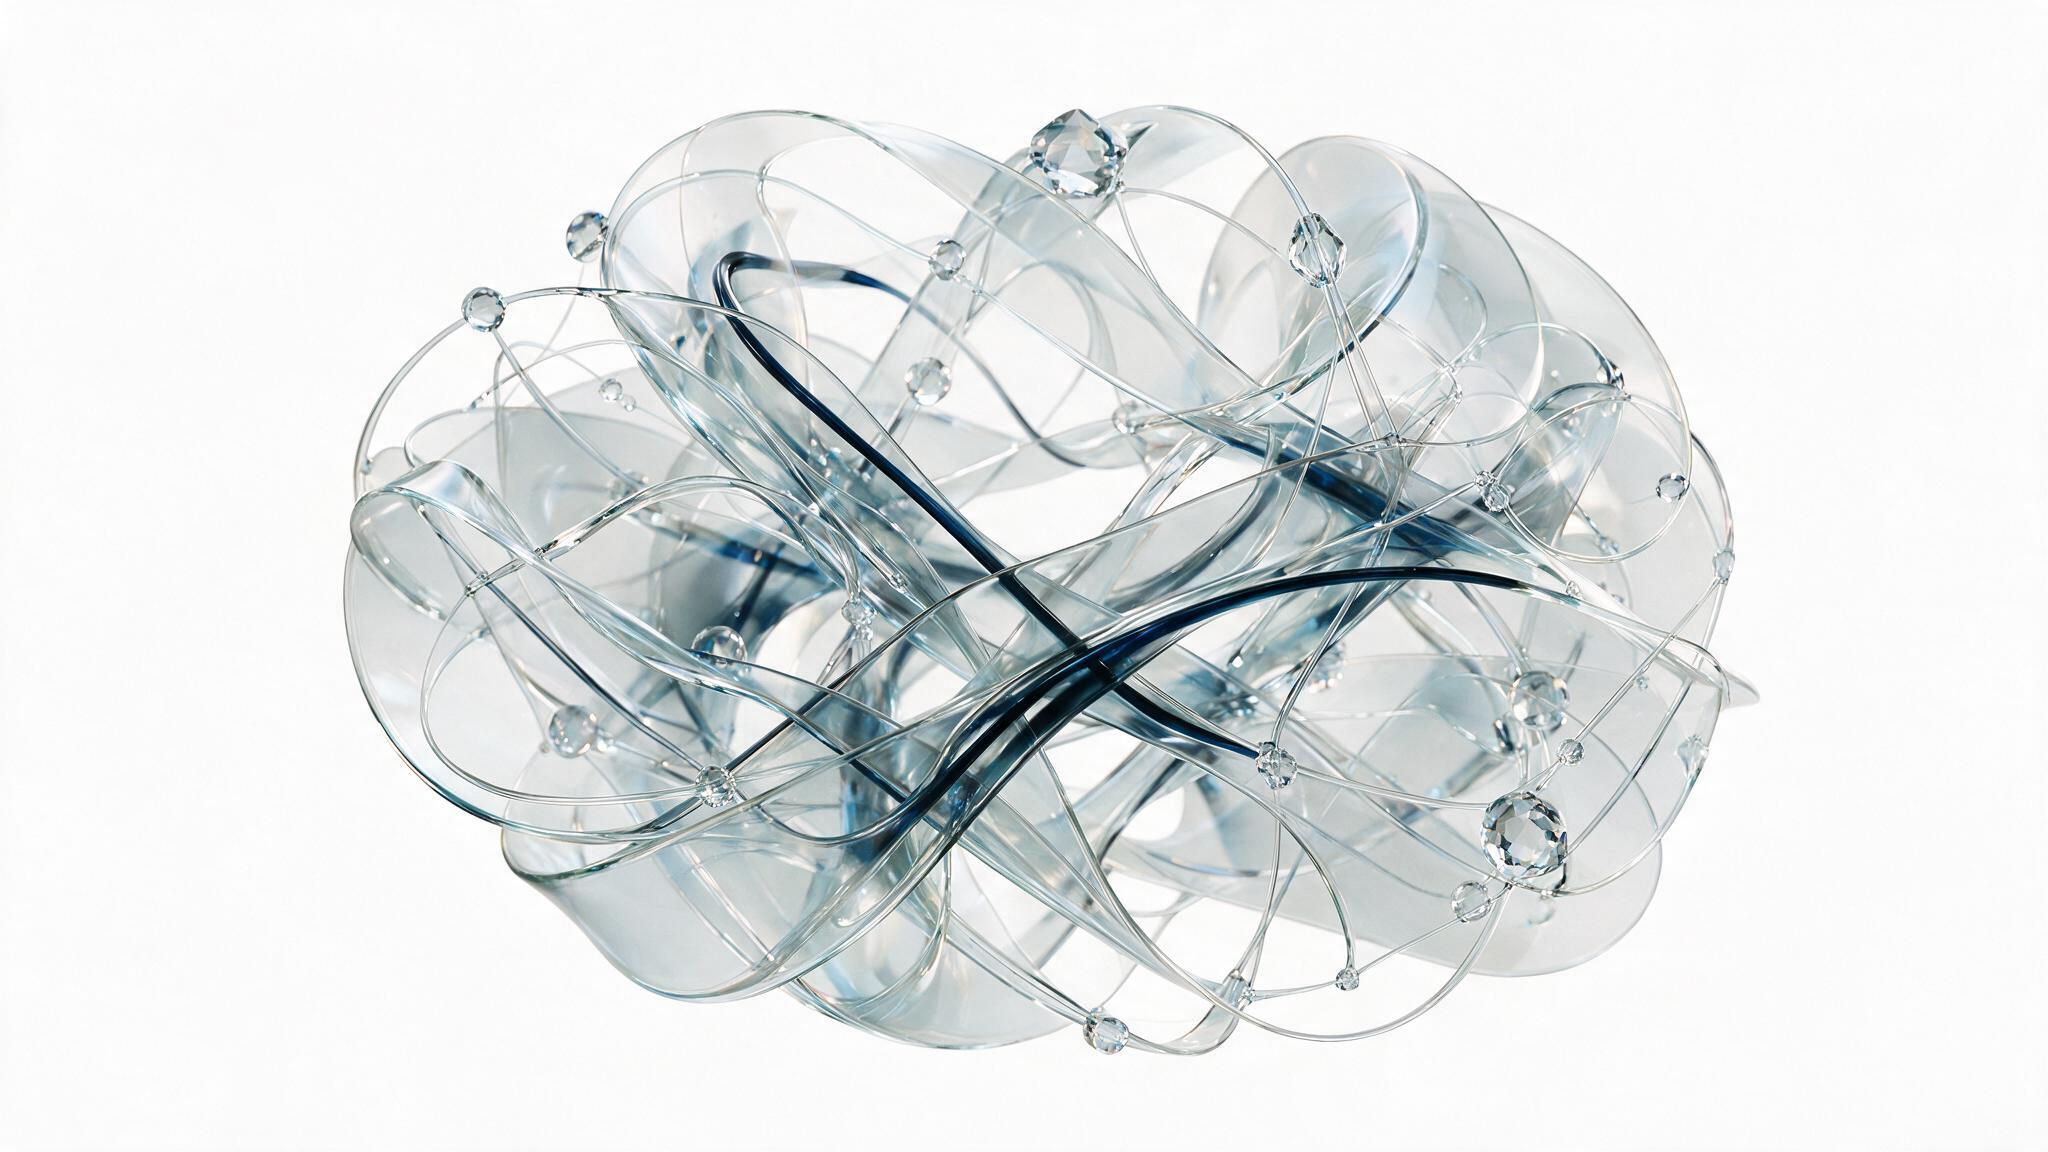
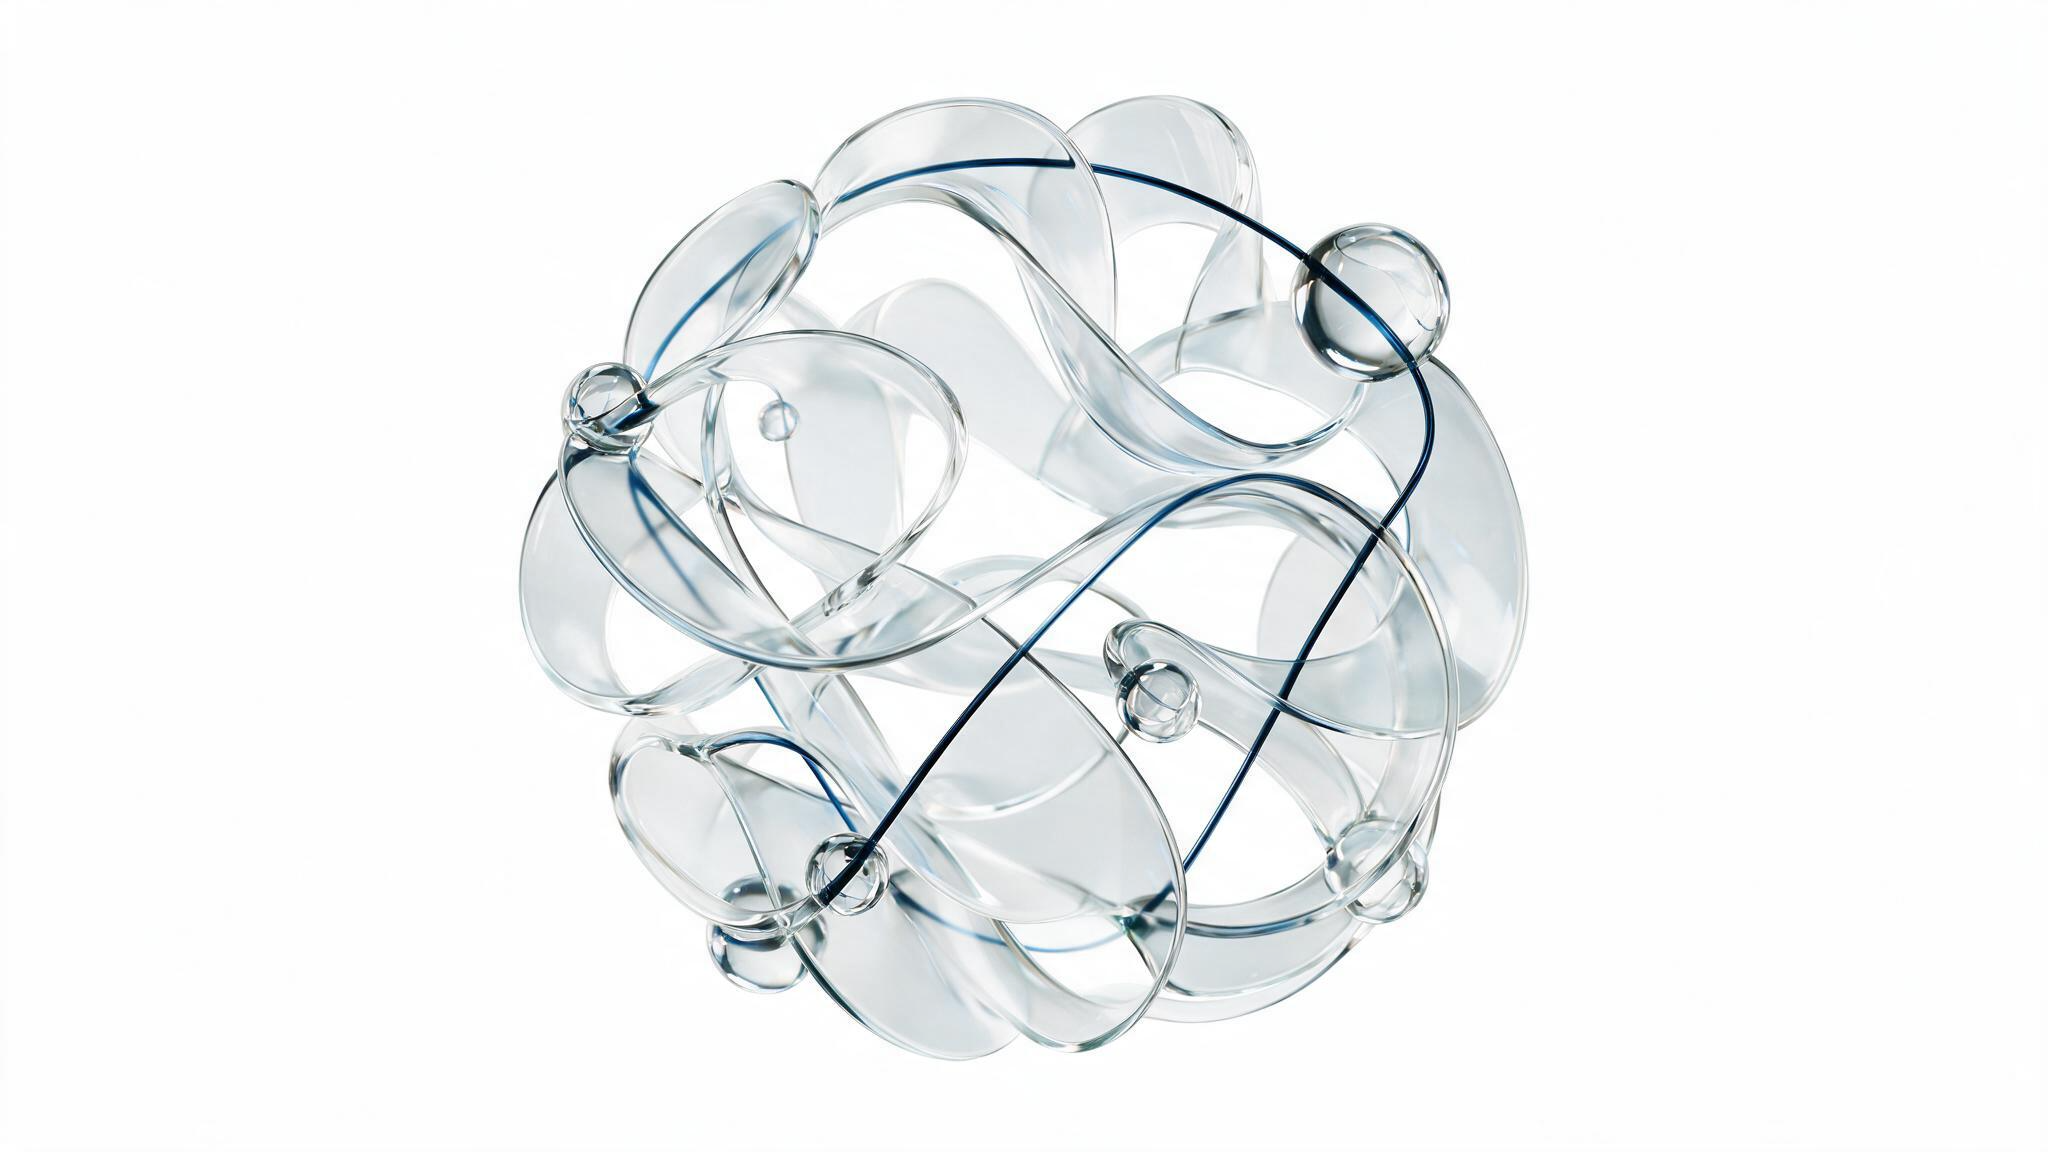
Ajuste mobile
Claude-Session: https://claude.ai/code/session_0167xgvGXi1CJqWEChrnvf8z

diff --git a/src/styles/liquid-glass.css b/src/styles/liquid-glass.css
@@ -776,6 +776,20 @@
   background: var(--surface-2);
   flex-shrink: 0;
 }
+@media (max-width: 639px) {
+  .liquid-trajectory-stats {
+    flex-direction: column;
+    align-items: flex-start;
+    gap: 24px;
+  }
+  .liquid-trajectory-stat {
+    width: 100%;
+  }
+  .liquid-trajectory-divider {
+    width: 100%;
+    height: 1px;
+  }
+}
 
 /* Trajetória — imagem de vidro (fundo-trajetoria.png), com um véu
    petróleo sutil por baixo ("preenchimento linear 20%" do Brief
@@ -1191,8 +1205,23 @@
    bordas, em vez da imagem inteira encolhida. Só < md; desktop (100vw)
    intocado. */
 @media (max-width: 767px) {
+  .liquid-about-composition {
+    margin-top: 120px;
+    overflow: visible;
+    position: relative;
+  }
   .liquid-about-bg {
-    width: 180vw;
+    width: 120vw;
+    aspect-ratio: 1441 / 830;
+    height: auto;
+    top: 50%;
+    bottom: auto;
+    left: 50%;
+    transform: translate(-50%, -50%);
+  }
+  .liquid-about-text {
+    position: relative;
+    z-index: 1;
   }
 }
 .liquid-about-bg img {
@@ -1228,7 +1257,7 @@
   width: 100vw;
   height: clamp(320px, 34vw, 480px);
   overflow: hidden;
-  margin-top: 48px;
+  margin-top: 56px;
 }
 /* A onda (mesmo asset 1441×776 do Figma, "Recortar conteúdo" ligado)
    fica maior que o wrapper e centralizada nos dois eixos — o
@@ -1244,6 +1273,20 @@
   width: 118%;
   max-width: none;
   opacity: 0.9;
+}
+
+/* Mobile: clamp(320px,34vw,480px) resolve pro mínimo (320px) numa faixa
+   fina — a onda fica colada no bottom:0 e sobra ~250px de branco acima
+   (buraco). Altura fixa e menor elimina o vazio sem tocar no desktop. */
+@media (max-width: 639px) {
+  .liquid-contact-wave-wrap {
+    height: 200px;
+    margin-top: 40px;
+  }
+  .liquid-contact-wave {
+    width: 140%;
+    transform: translateX(-50%) rotate(-2deg) scale(1.05);
+  }
 }
 
 @media (prefers-reduced-motion: reduce) {

diff --git a/src/components/icons/LinkedInIcon.tsx b/src/components/icons/LinkedInIcon.tsx
@@ -4,7 +4,8 @@ type Props = {
 
 export function LinkedInIcon({ className }: Props) {
   return (
-    <svg viewBox="0 0 24 24" fill="currentColor" className={className} aria-hidden="true">
+    <svg viewBox="0 0 24 24" fill="currentColor" width="16" height="16"
+         className={className} aria-hidden="true">
       <path d="M20.447 20.452h-3.554v-5.569c0-1.328-.027-3.037-1.852-3.037-1.853 0-2.136 1.445-2.136 2.939v5.667H9.351V9h3.414v1.561h.046c.477-.9 1.637-1.85 3.37-1.85 3.601 0 4.267 2.37 4.267 5.455v6.286zM5.337 7.433a2.062 2.062 0 01-2.063-2.065 2.064 2.064 0 112.063 2.065zm1.782 13.019H3.555V9h3.564v11.452zM22.225 0H1.771C.792 0 0 .774 0 1.729v20.542C0 23.227.792 24 1.771 24h20.451C23.2 24 24 23.227 24 22.271V1.729C24 .774 23.2 0 22.222 0h.003z" />
     </svg>
   )

diff --git a/src/components/home/AboutSection.tsx b/src/components/home/AboutSection.tsx
@@ -24,7 +24,7 @@ const principles = [
 export default function AboutSection() {
   return (
     <section id="sobre" className="pt-20 md:pt-32 overflow-x-hidden">
-      <div className="max-w-[1199px] mx-auto px-4 md:px-8">
+      <div className="liquid-about-text max-w-[1199px] mx-auto px-4 md:px-8">
         <LiquidReveal blur>
           <LiquidSectionHeading id="sobre-title" number="/03" label="Sobre mim" />
         </LiquidReveal>

diff --git a/src/components/liquid/LiquidHero.tsx b/src/components/liquid/LiquidHero.tsx
@@ -50,7 +50,7 @@ export default function LiquidHero() {
           )}
         </motion.div>
 
-        <div className="flex flex-col items-center gap-10 -mt-6 md:-mt-10">
+        <div className="flex flex-col items-center gap-10 mt-8 md:mt-12">
           <div className="flex flex-col gap-6 items-center text-center w-full">
             <motion.h1
               className="liquid-type-hero-title text-balance"
